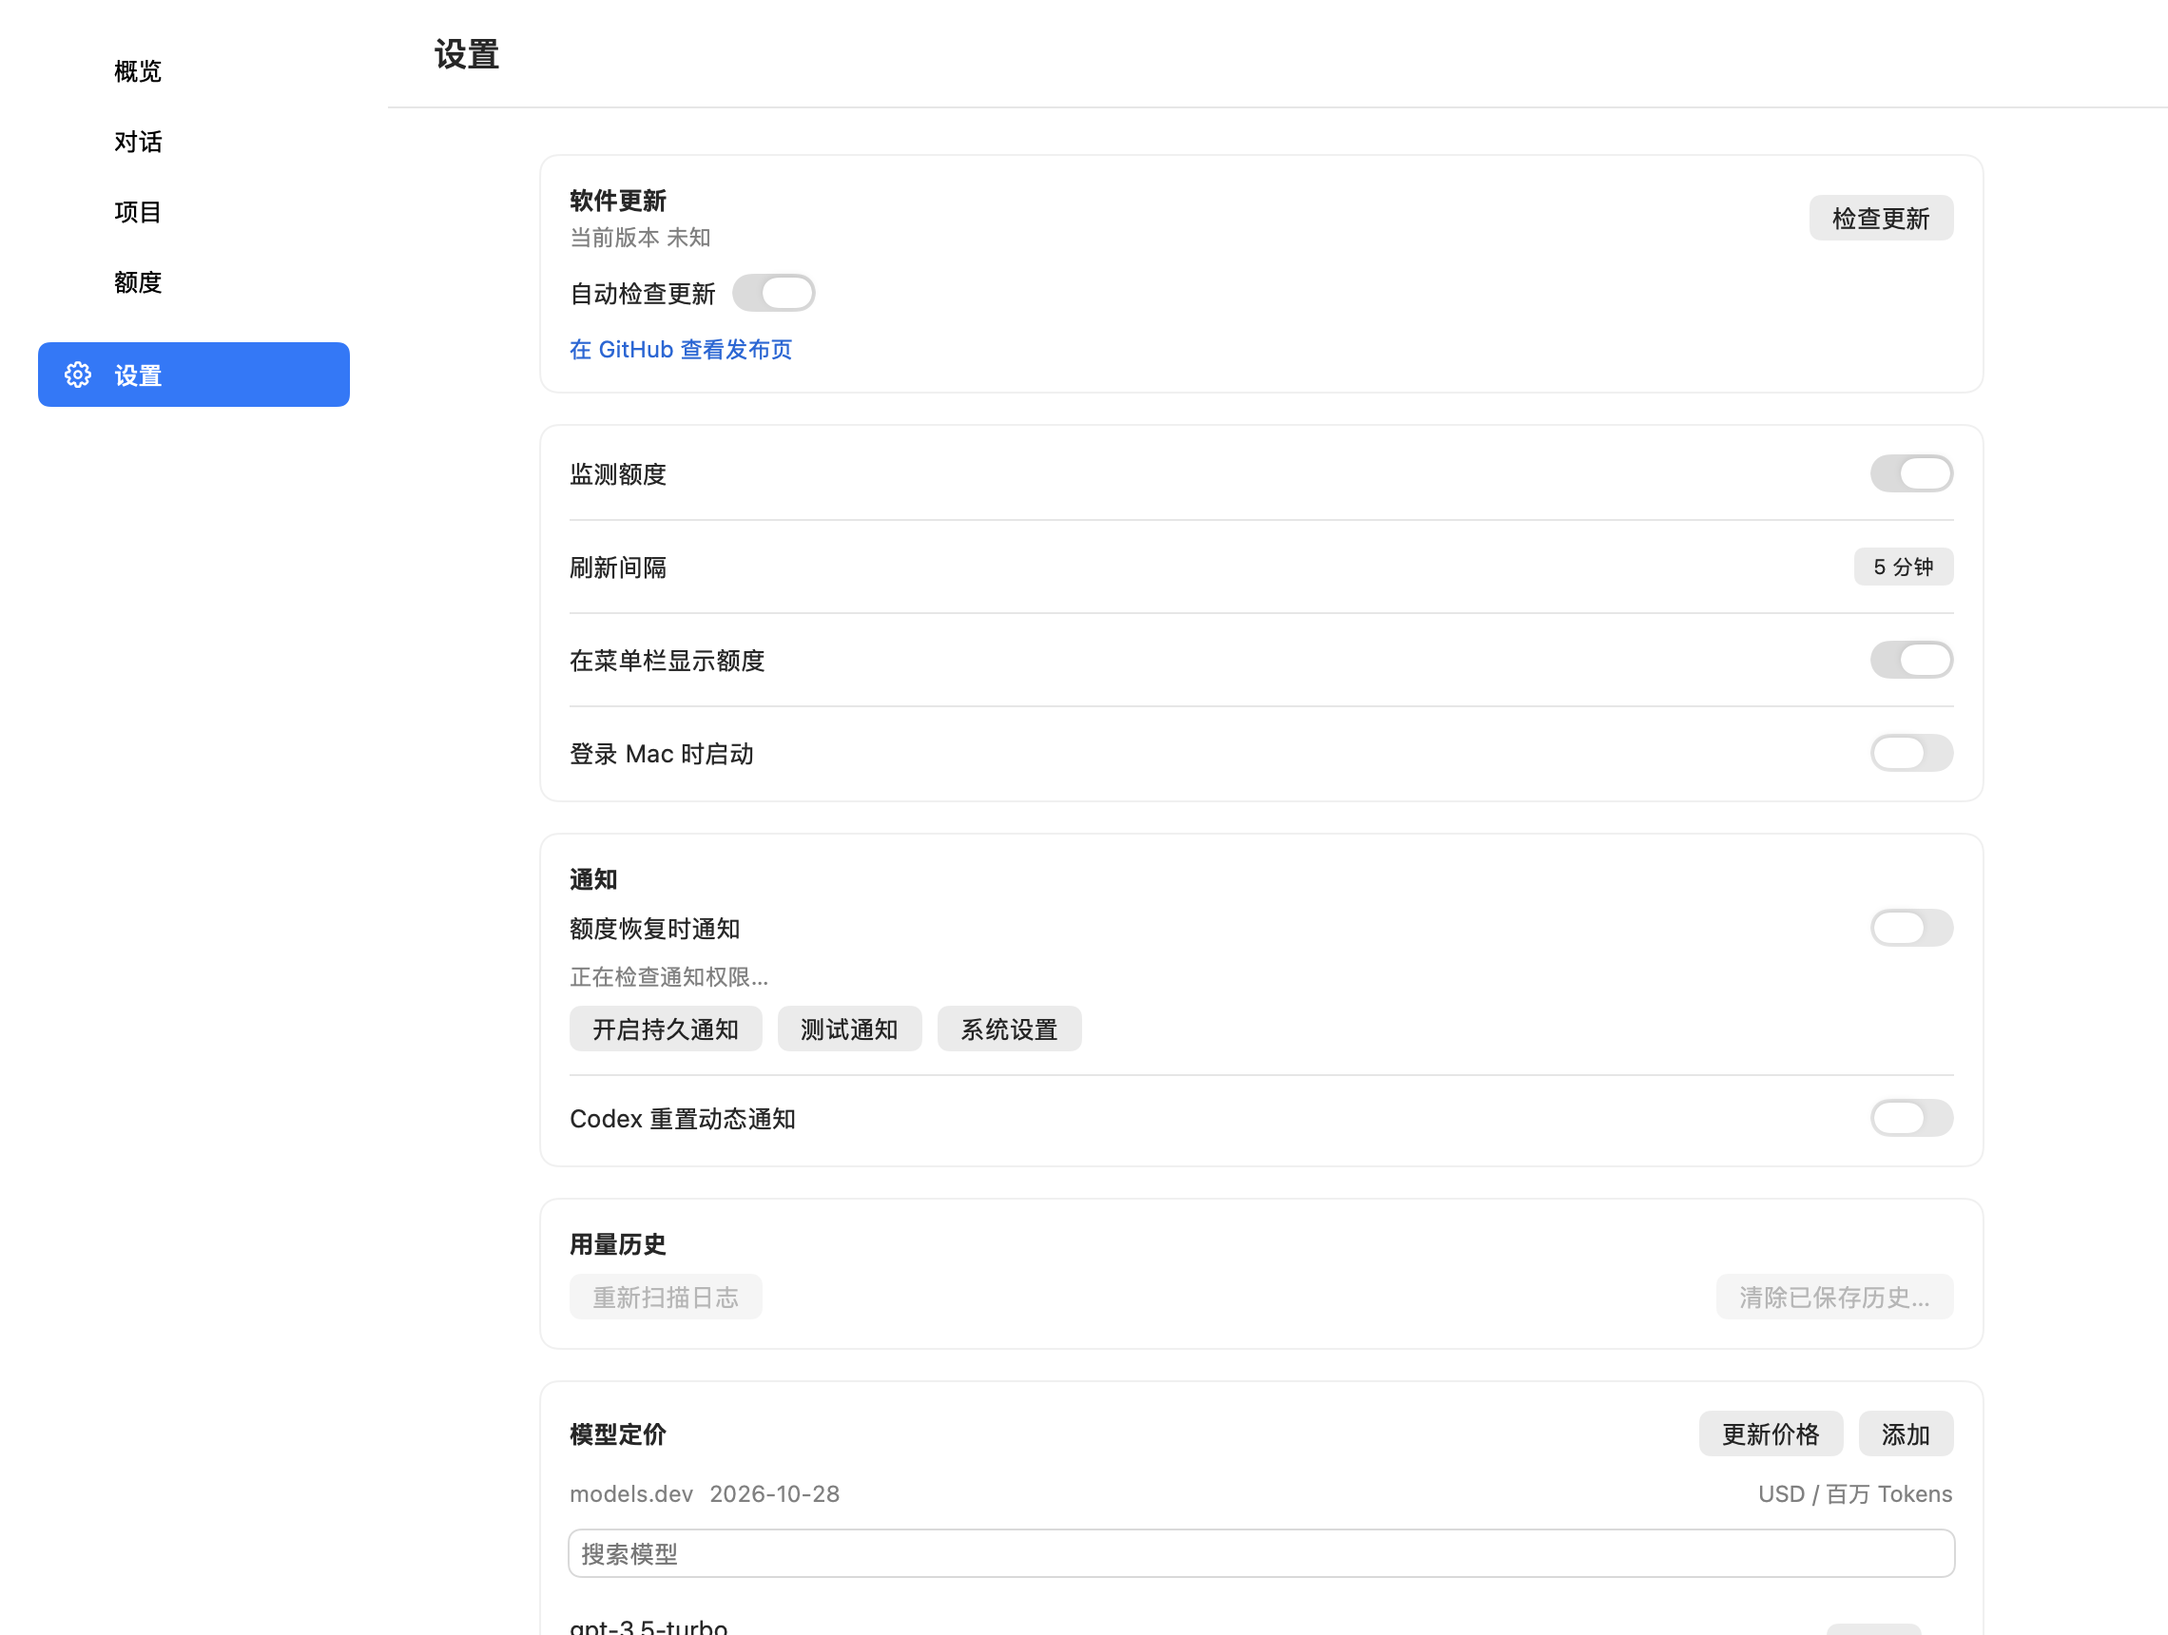
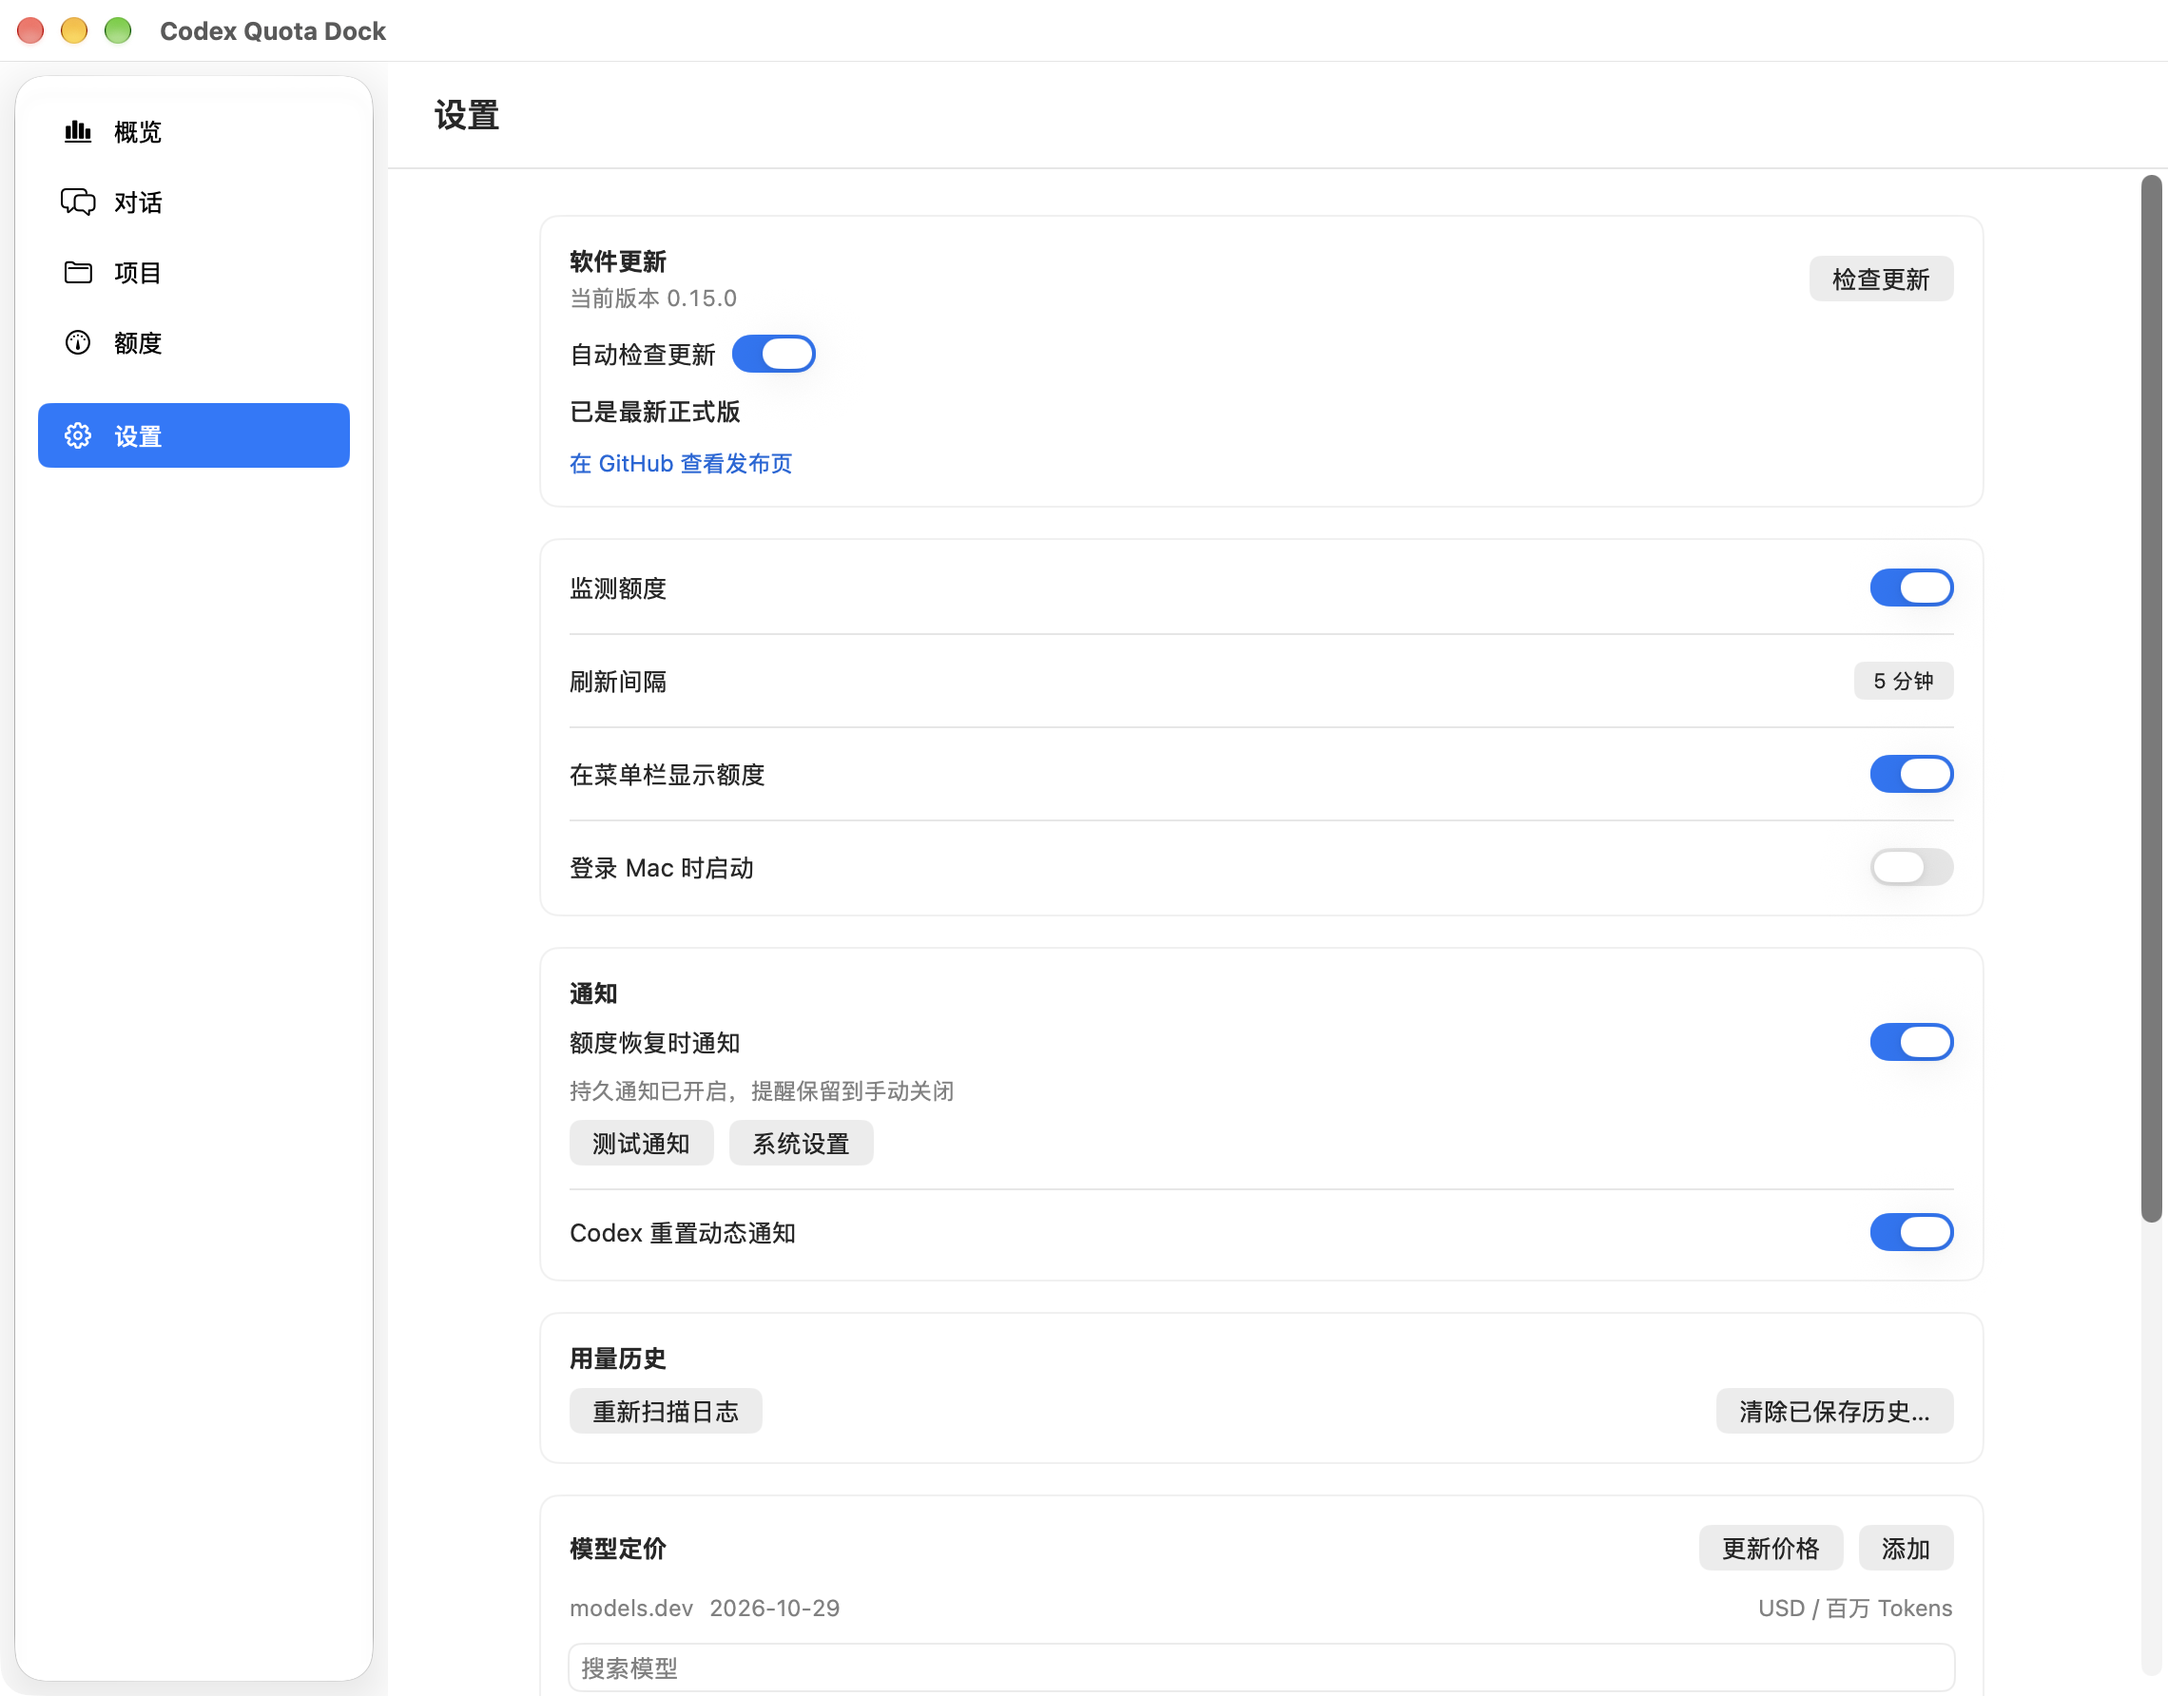
docs(readme): 更新脱敏实机截图
- 使用当前源码构建的真实窗口截图替换额度和设置预览，展示额度趋势与刷新间隔。
- 排除账号、项目路径与对话标识，去除共享标记和指针高亮。
- 更新截图版本说明，删除过时的示例状态文案。

diff --git a/README.md b/README.md
@@ -4,9 +4,9 @@
 
 [下载最新版](https://github.com/sunpm/codex-quota-dock/releases/latest) · [更新记录](https://github.com/sunpm/codex-quota-dock/releases) · [反馈问题](https://github.com/sunpm/codex-quota-dock/issues)
 
-![Codex 额度、进度与重置倒计时](docs/images/quota.png)
+![Codex Quota Dock 实机截图：剩余额度、消耗趋势与重置倒计时](docs/images/quota.png)
 
-*界面预览由当前源码的原生组件渲染，使用示例数据，不含真实账号或用量。*
+*v0.15.0 源码构建的 macOS 实机截图，不含账号、项目路径或对话标识。*
 
 ## 功能范围
 
@@ -54,11 +54,9 @@
 | `⌘Q` | 退出应用并停止监测 |
 
 <details>
-<summary>监测与通知设置预览</summary>
+<summary>监测与通知设置</summary>
 
 ![Codex 监测、菜单栏、恢复通知与用量历史设置](docs/images/settings.png)
-
-使用示例状态。监测、通知和菜单栏显示可分别控制。
 
 </details>
 
